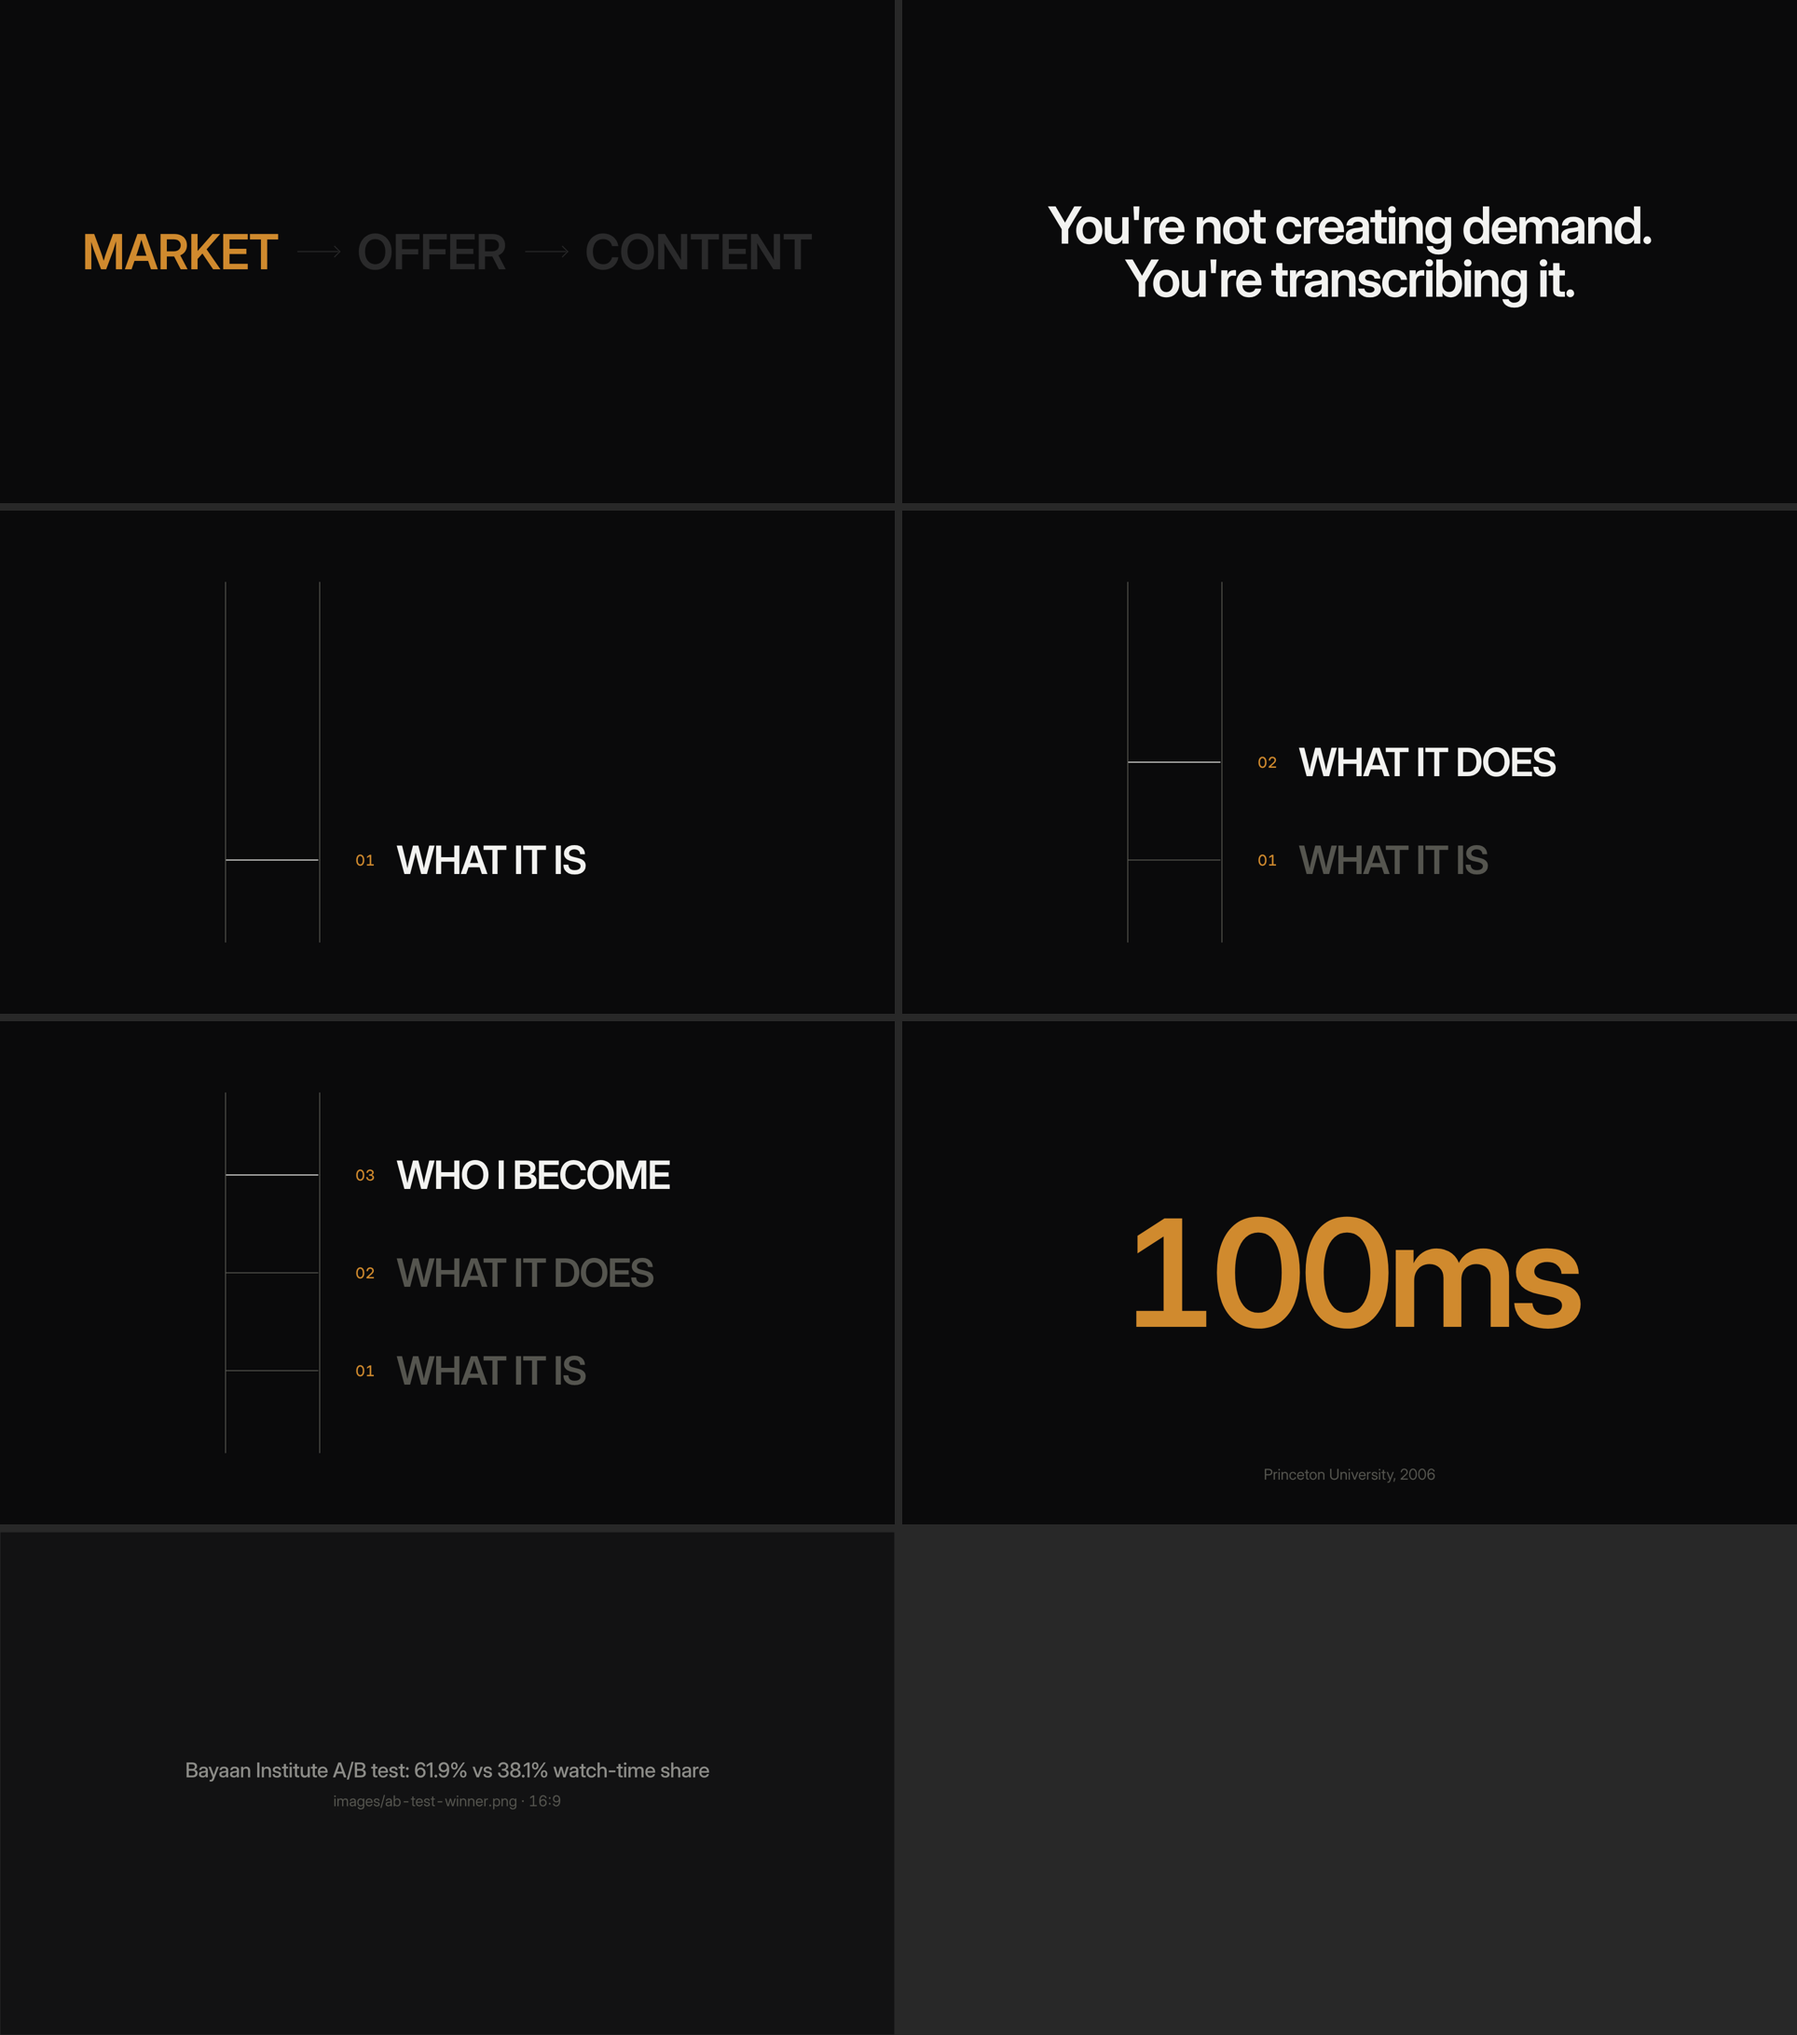
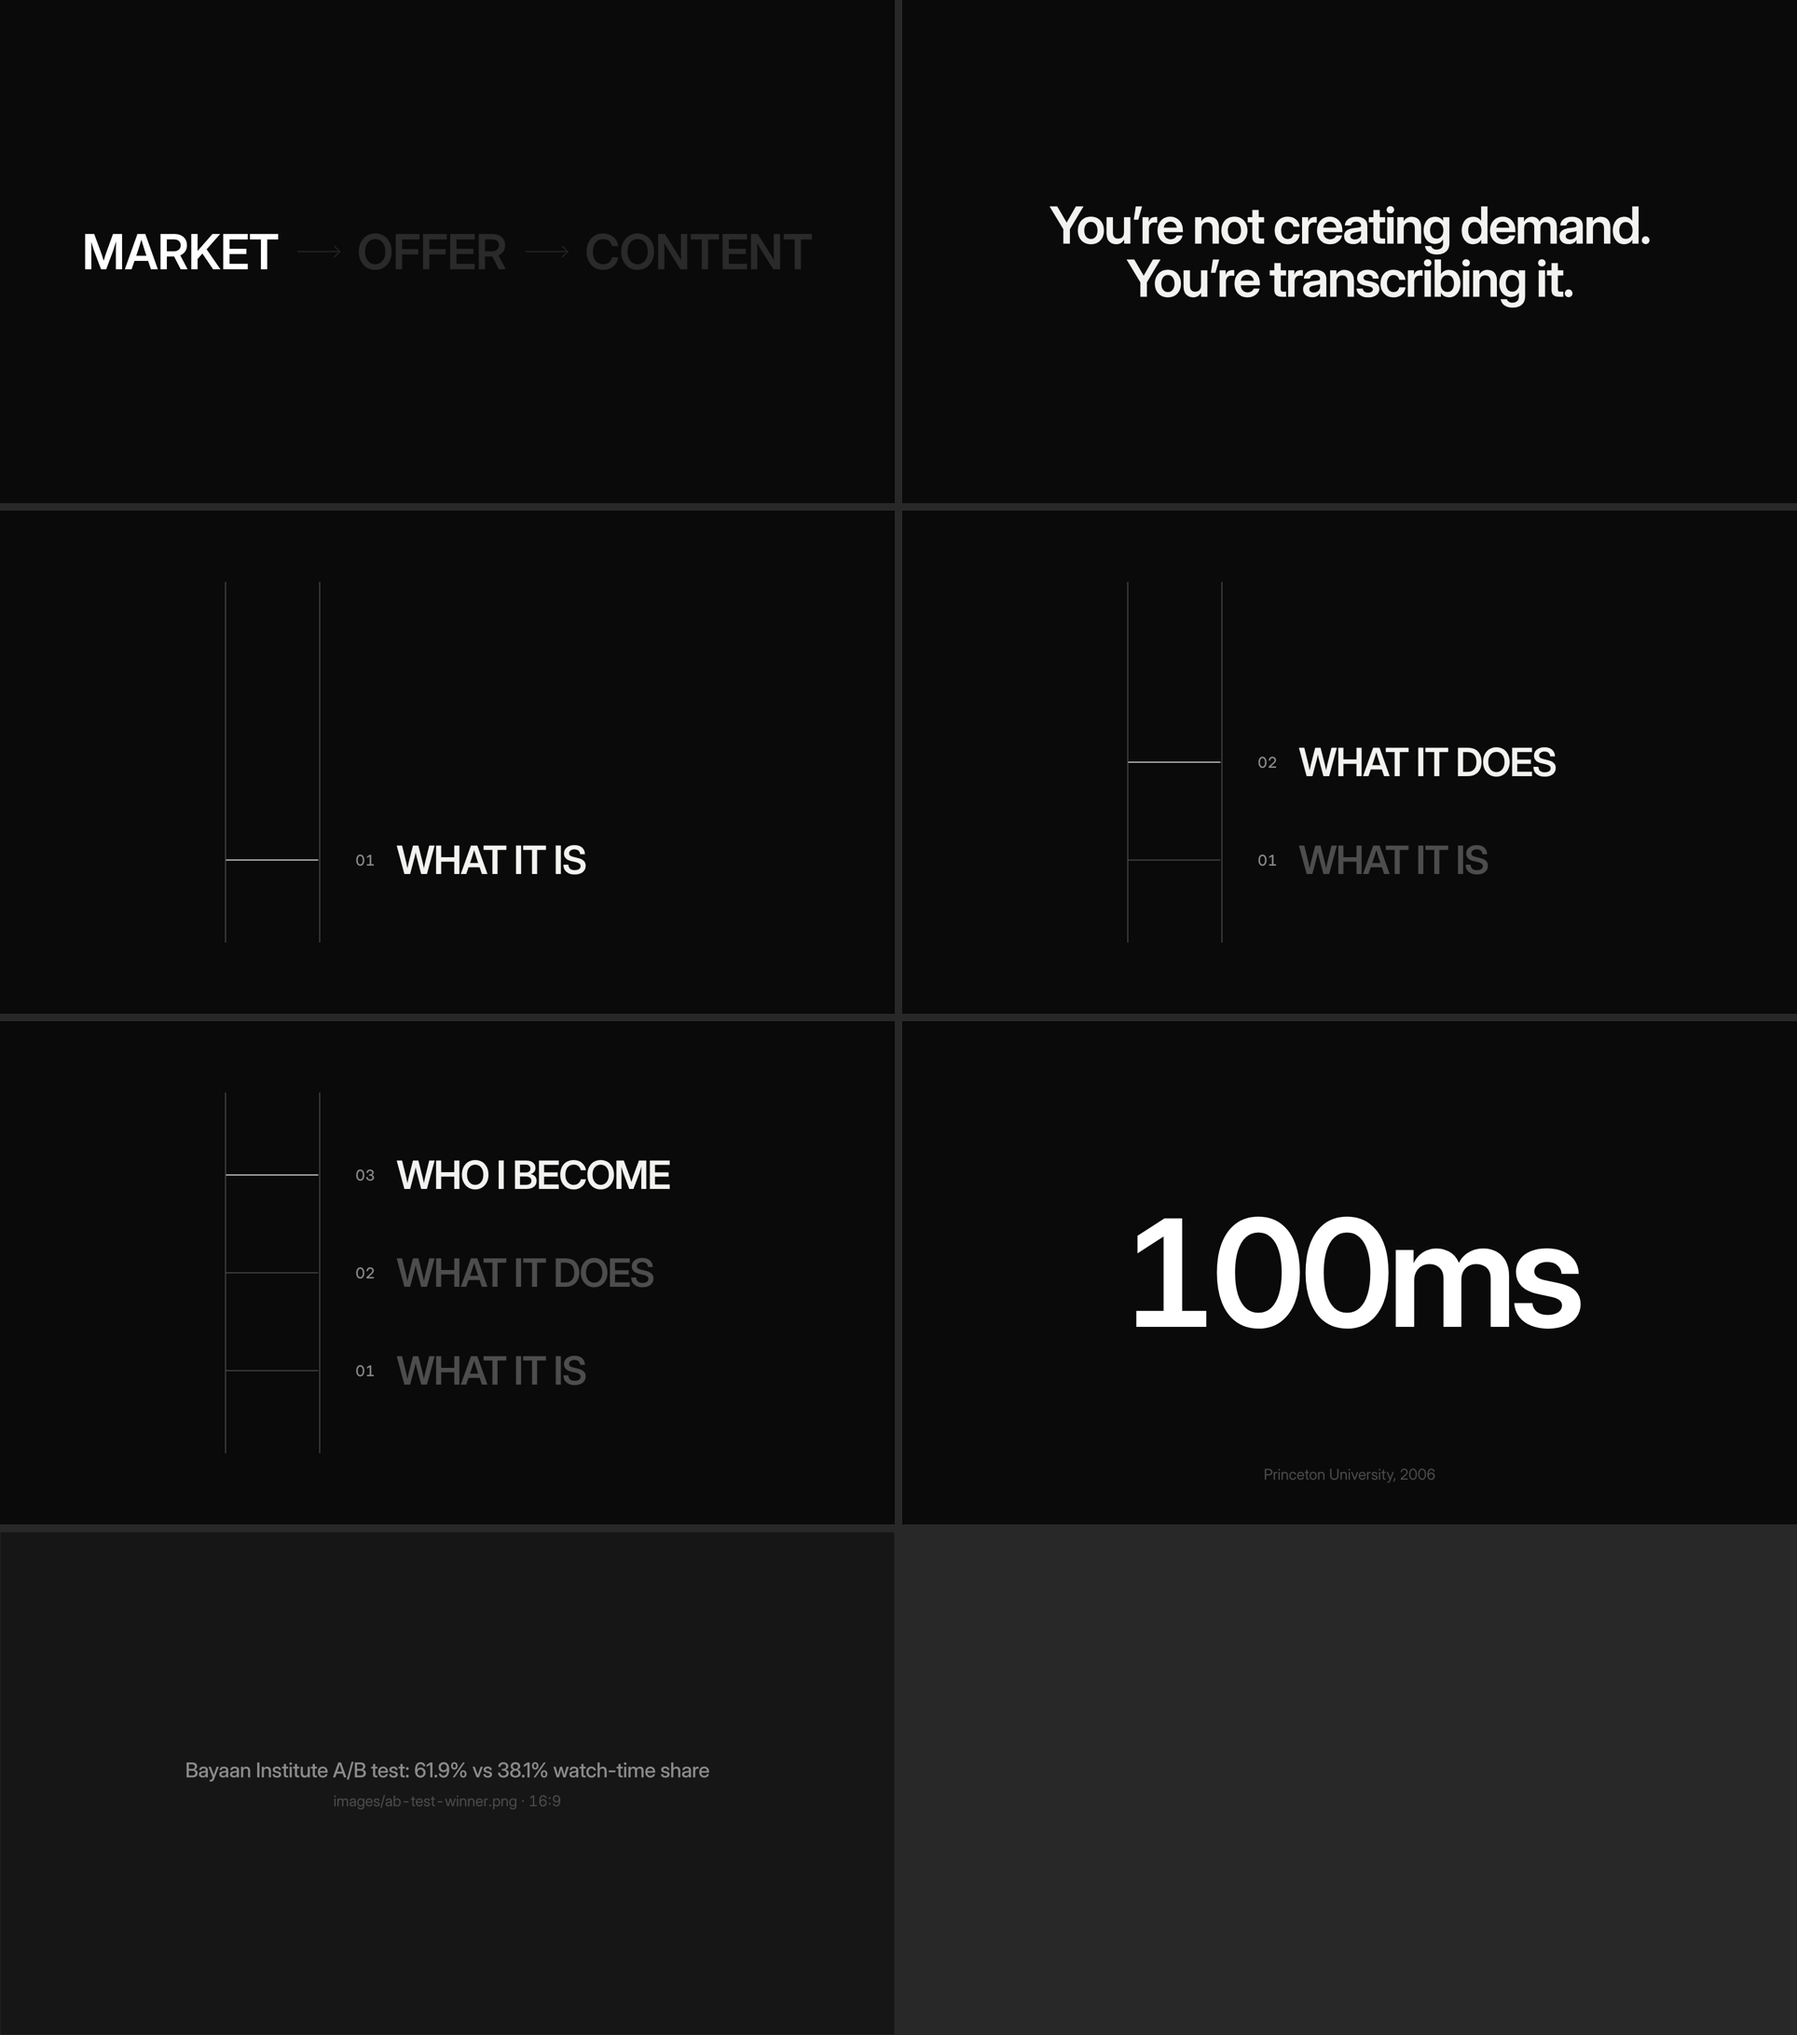
Use the monochrome CTP brand palette in the deck
The brand (design/design-system.html) has no hue, so the amber accent is
replaced by brightness: lit states and stat numbers are pure white, the
rest uses the brand greys. Small index numbers drop to mid-grey, and
presenter warnings become inverted labels so they still stand out.

Claude-Session: https://claude.ai/code/session_01JNafsB6aRpush18iZW1ZiU

Changed region(s): [[0.5913, 0.0934, 0.9025, 0.1557], [0.6224, 0.5916, 0.9025, 0.6538], [0.0622, 0.0934, 0.1556, 0.1557]]

diff --git a/deck/deck.css b/deck/deck.css
@@ -11,13 +11,15 @@
 }
 
 :root {
+  /* CTP brand is monochrome (design/design-system.html): no hue anywhere.
+     "Accent" is brightness: lit states and stat numbers go to pure white. */
   --bg: #0A0A0B;
   --fg: #F2F2F0;
-  --accent: #D08A2E;    /* deep amber: active states and numbers only */
-  --muted: #8C8C88;
-  --dim: #55554F;
-  --faint: #2A2A2B;
-  --well: #121213;
+  --accent: #FFFFFF;    /* active states and stat numbers only */
+  --muted: #8C8C8C;     /* brand gray-400 */
+  --dim: #4D4D4D;       /* brand gray-600 */
+  --faint: #2A2A2A;     /* brand border */
+  --well: #161616;      /* brand surface-2 */
   --fade: 150ms;        /* set from FADE_MS in engine.js */
   --font: 'InterDeck', 'Inter', system-ui, -apple-system, 'Helvetica Neue', Arial, sans-serif;
 }
@@ -124,7 +126,7 @@ body.idle, body.idle * { cursor: none !important; }
 .flow { display: inline-flex; align-items: center; font-size: 80px; }
 .flow-node { display: flex; flex-direction: column; gap: 24px; }
 .flow-num {
-  font-size: 32px; font-weight: 500; color: var(--accent);
+  font-size: 32px; font-weight: 500; color: var(--muted);
   font-variant-numeric: tabular-nums; letter-spacing: 0.02em;
 }
 .flow-label { font-size: 1em; font-weight: 600; letter-spacing: -0.03em; line-height: 1; }
@@ -153,7 +155,7 @@ body.idle, body.idle * { cursor: none !important; }
   border-top: 1px solid var(--faint);
 }
 .row:last-child { border-bottom: 1px solid var(--faint); }
-.row-num { font-size: 40px; font-weight: 500; color: var(--accent); font-variant-numeric: tabular-nums; width: 64px; }
+.row-num { font-size: 40px; font-weight: 500; color: var(--muted); font-variant-numeric: tabular-nums; width: 64px; }
 .row-text { font-size: 64px; font-weight: 600; letter-spacing: -0.025em; line-height: 1.1; }
 
 /* ladder: rails always present, rungs climb one per build */
@@ -166,7 +168,7 @@ body.idle, body.idle * { cursor: none !important; }
 .rung-bar { width: 200px; height: 2px; background: var(--fg); flex-shrink: 0; }
 .rung-num {
   margin-left: 80px; width: 88px;
-  font-size: 32px; font-weight: 500; color: var(--accent); font-variant-numeric: tabular-nums; letter-spacing: 0.02em;
+  font-size: 32px; font-weight: 500; color: var(--muted); font-variant-numeric: tabular-nums; letter-spacing: 0.02em;
 }
 .rung-label { font-size: 84px; font-weight: 600; letter-spacing: -0.03em; line-height: 1; white-space: nowrap; }
 .rung.on:not(.cur) .rung-label { color: var(--dim); }
@@ -289,11 +291,11 @@ body.idle, body.idle * { cursor: none !important; }
 .p-section { font-size: 20px; font-weight: 600; text-transform: uppercase; letter-spacing: 0.08em; }
 .p-range { font-size: 18px; color: var(--muted); font-variant-numeric: tabular-nums; margin-top: 6px; }
 .p-pace { font-size: 24px; font-weight: 500; margin-top: 10px; font-variant-numeric: tabular-nums; }
-.p-pace.over { color: var(--accent); }
+.p-pace.over { display: inline-block; background: var(--accent); color: var(--bg); padding: 2px 10px; }
 
 .p-foot { margin-top: auto; display: flex; flex-direction: column; gap: 10px; }
 .p-link { font-size: 14px; color: var(--muted); }
-.p-link.down { color: var(--accent); }
+.p-link.down { align-self: flex-start; background: var(--accent); color: var(--bg); padding: 4px 10px; }
 .p-keys { font-size: 12px; color: var(--dim); letter-spacing: 0.02em; line-height: 1.6; }
 
 /* ---------------------------------------------------------------------
